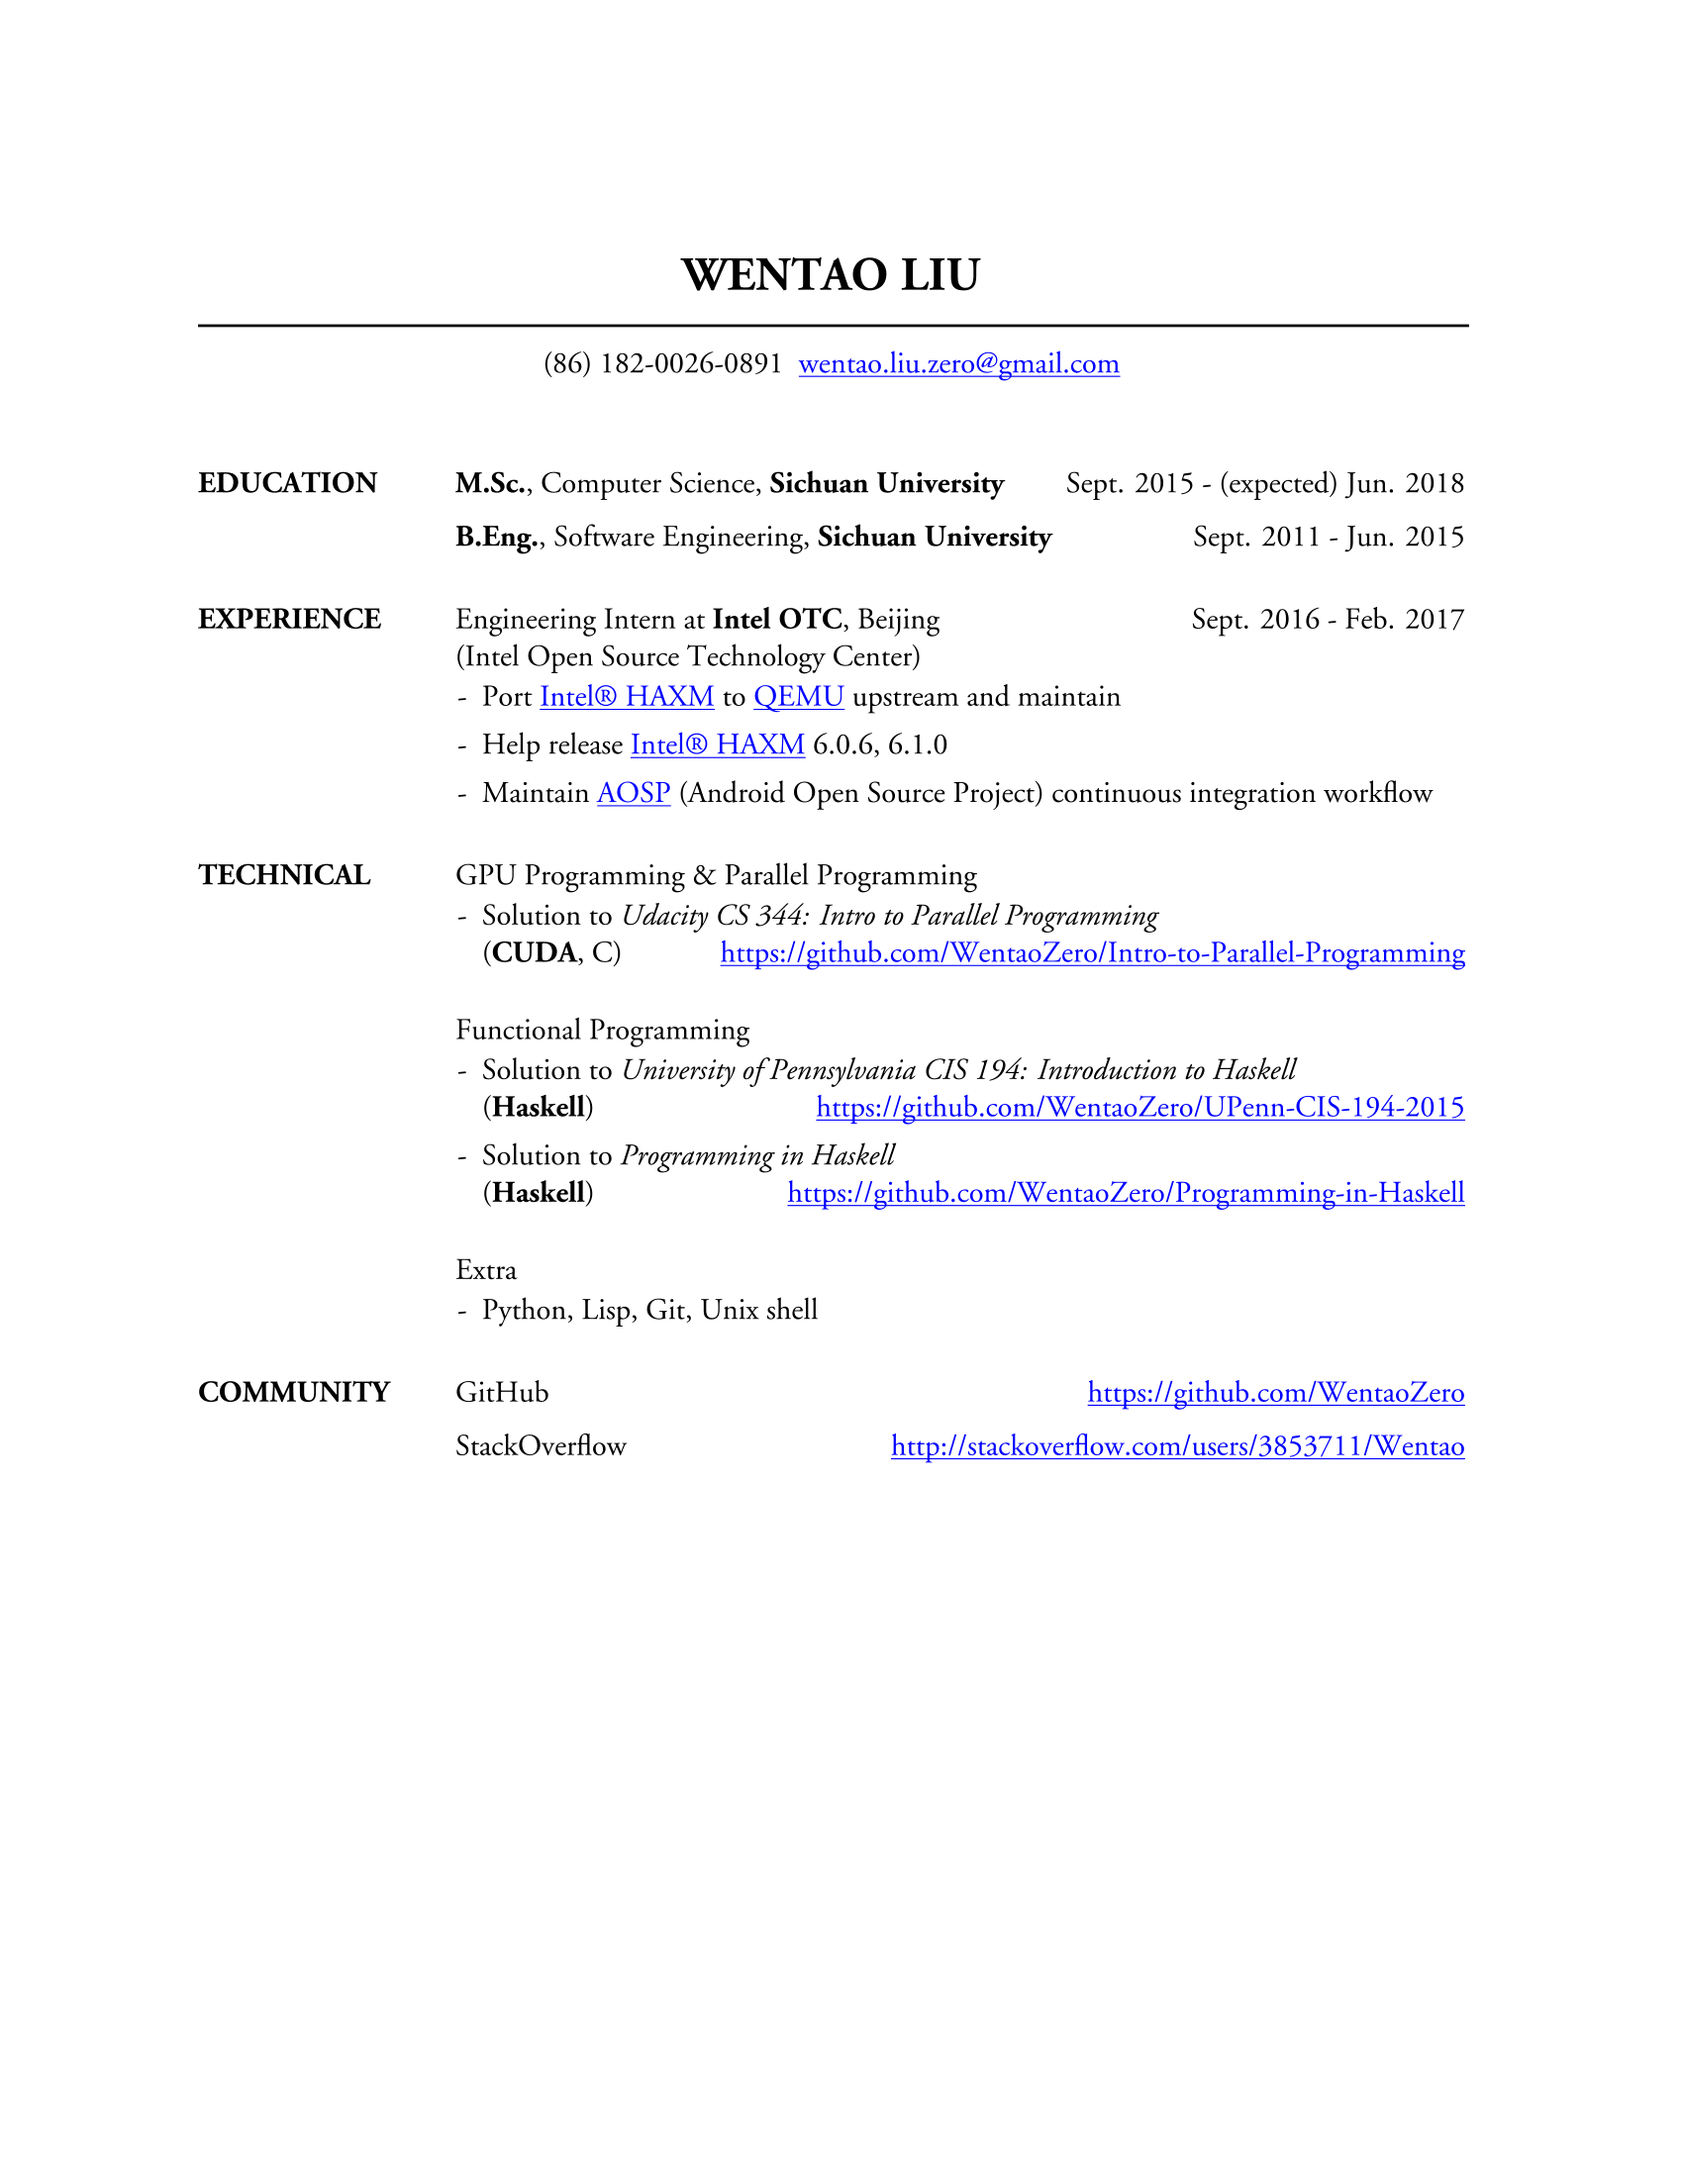
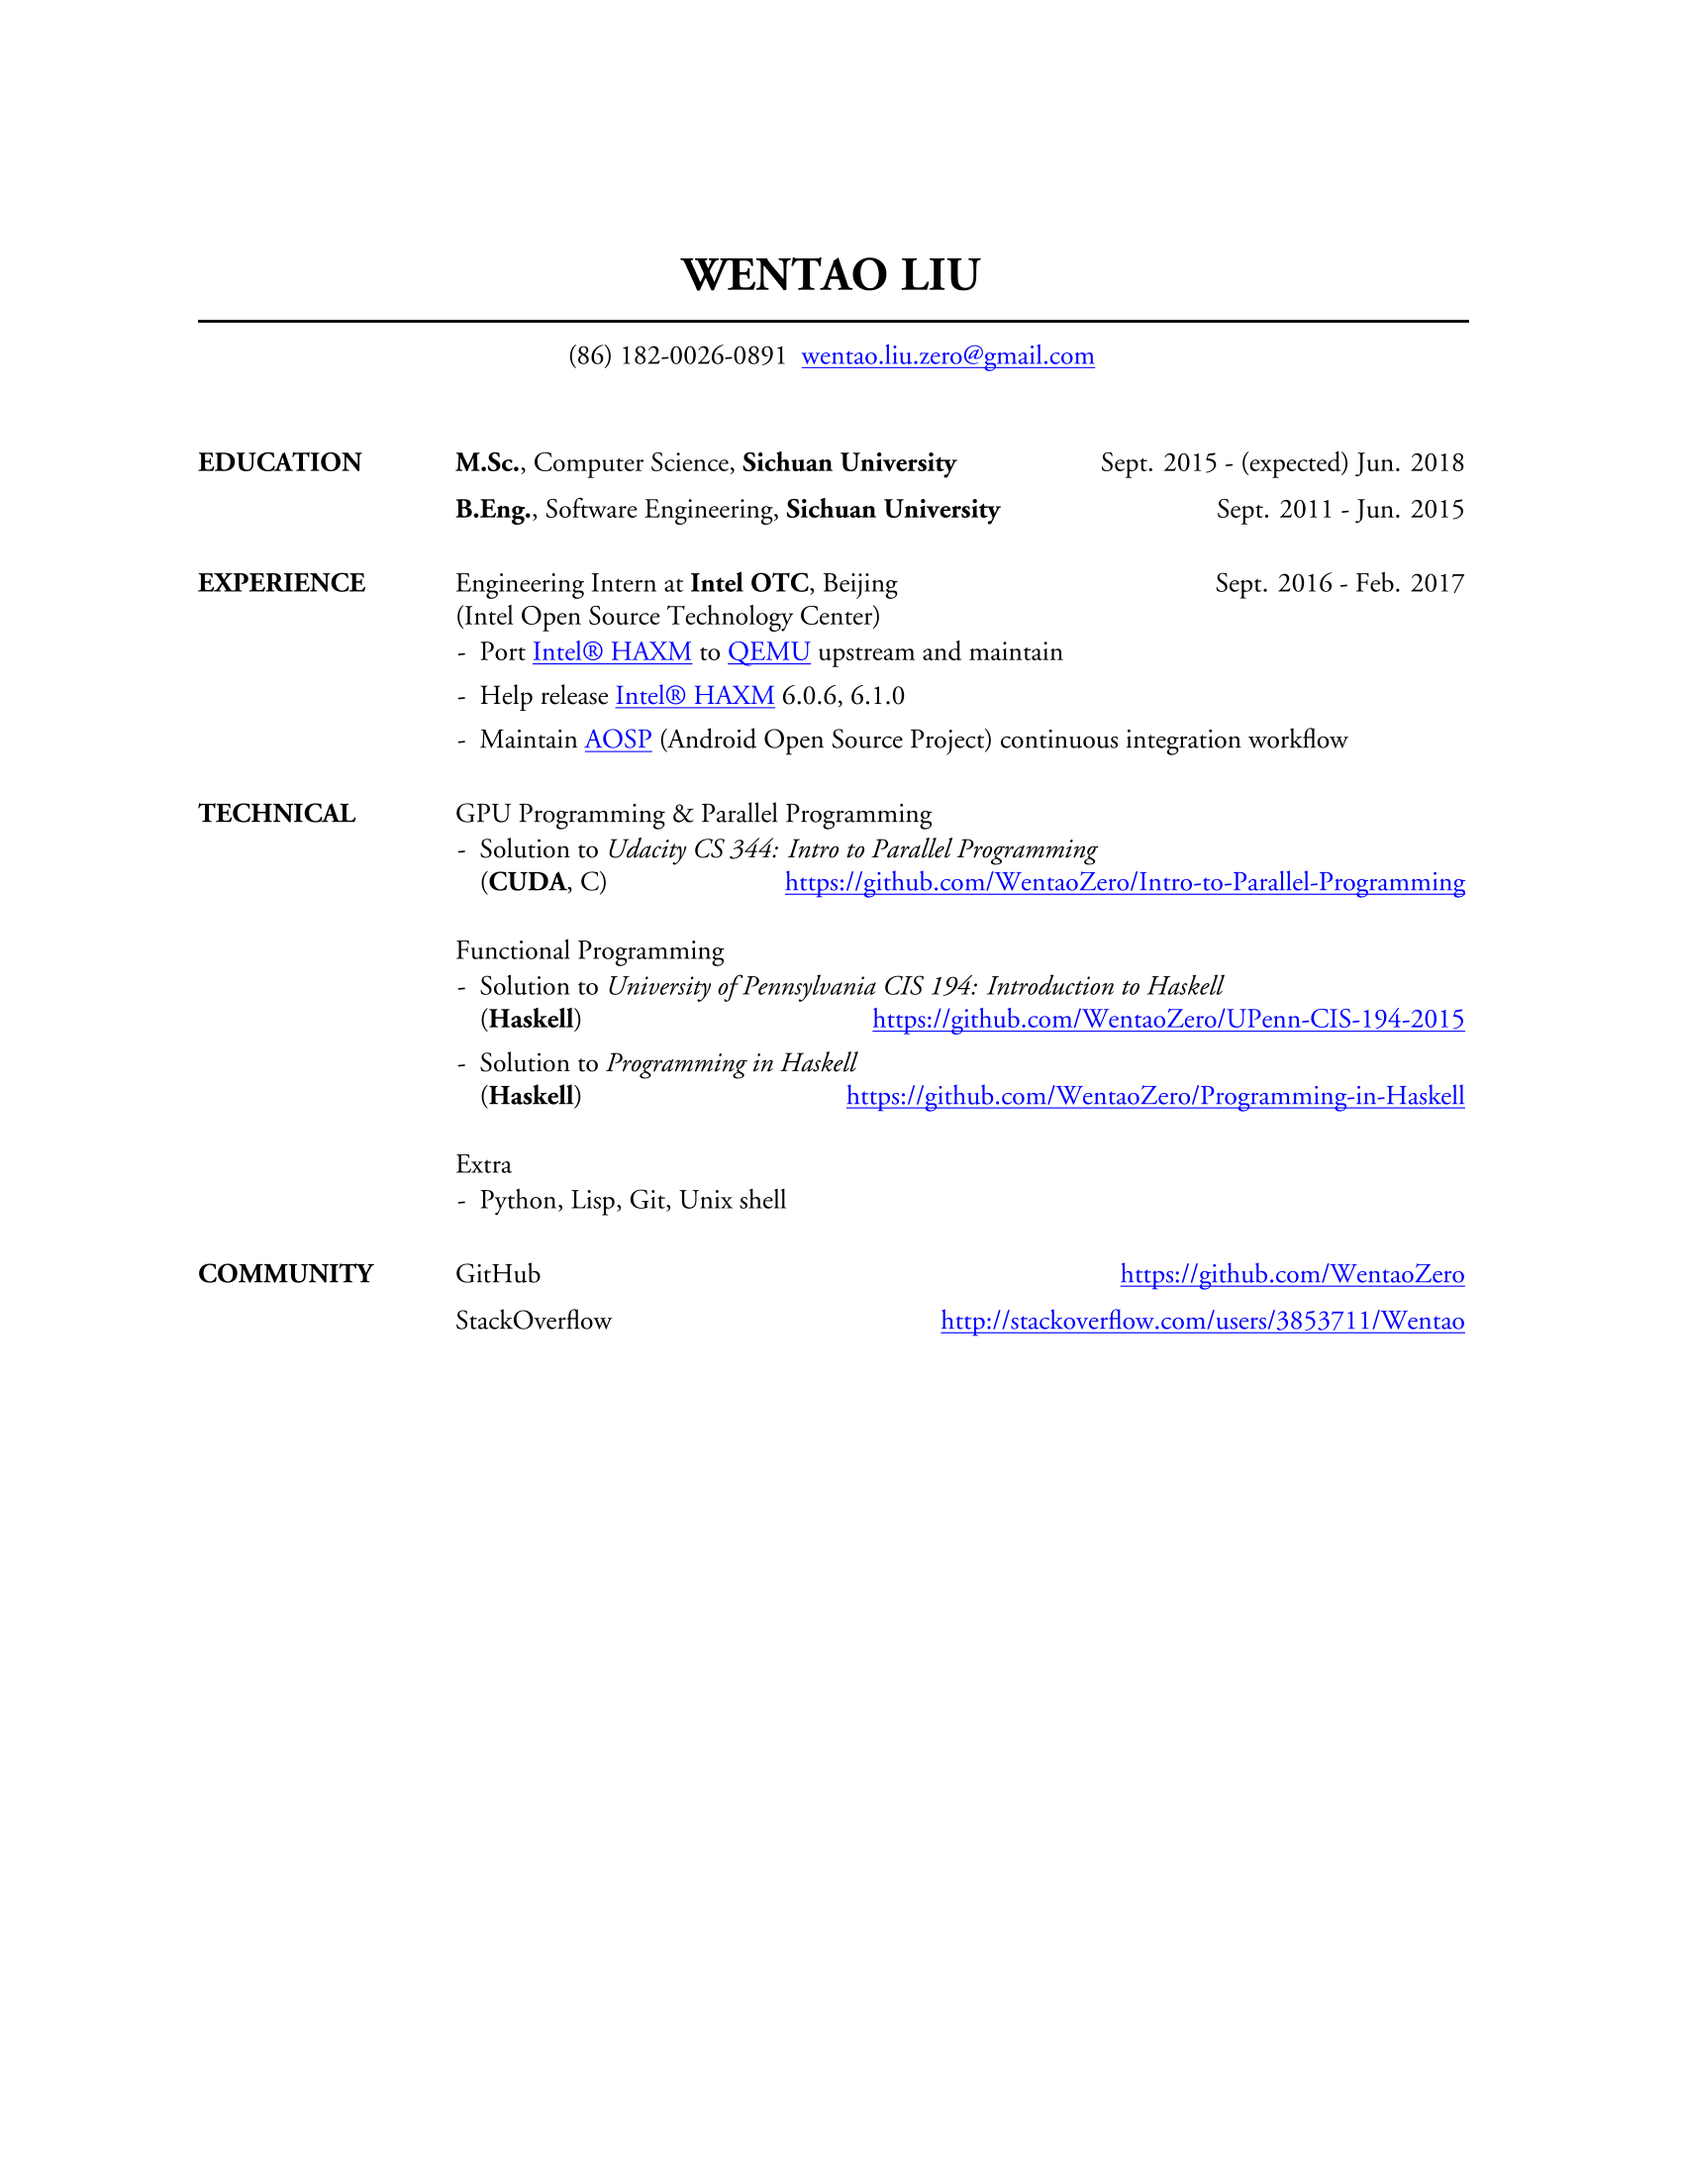
font size: 11pt -> 10.5pt

diff --git a/Resume-Wentao-LIU.tex b/Resume-Wentao-LIU.tex
@@ -1,4 +1,4 @@
-\documentclass[margin, 11pt]{res} % Use the res.cls style, the font size can be changed to 11pt or 12pt here
+\documentclass[margin, 10.5pt]{res} % Use the res.cls style, the font size can be changed to 11pt or 12pt here
 %\usepackage{helvet} % Default font is the helvetica postscript font
 %\usepackage{newcent} % To change the default font to the new century schoolbook postscript font uncomment this line and comment the one above
 %\usepackage{times}
